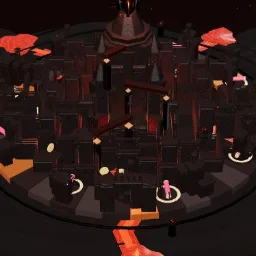
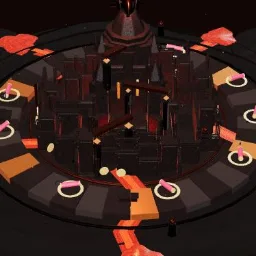
Island 020 playthrough fixes: lava shader, buried tile board, phone freeze
Found by playing Island 020 end to end on the real board:
- The authored lava canal shader animated with uElapsed/uThermalPulse in
  its vertex stage without declaring them, so it failed to compile and the
  canals never drew.
- The authored city GLB sat on top of the 36-tile ring and buried the
  board; its triangles over the route corridor are now carved away at load.
- Tapping the staged-mission row on the Mission Phone folded the phone and
  closed/reopened it in one batch, leaving it stuck folded: every button
  disabled and the controller hidden (the freeze). The row now shows its
  details, and a fold that leaves the phone open always unfolds it again.
- The labyrinth objective names what is missing instead of a flat 0 / 5.

Claude-Session: https://claude.ai/code/session_01JiAyTZEzKKBDjh6881R4g6

diff --git a/src/features/gamification/level-worlds/services/__tests__/island20PlaythroughFixes.test.ts b/src/features/gamification/level-worlds/services/__tests__/island20PlaythroughFixes.test.ts
@@ -1,0 +1,102 @@
+import * as THREE from 'three';
+import { GLTFLoader } from 'three/examples/jsm/loaders/GLTFLoader.js';
+import {
+  carveIsland20AuthoredCityRouteCorridor,
+  ISLAND_20_AUTHORED_CITY_GLB,
+  ISLAND_20_AUTHORED_CITY_SCALE,
+  ISLAND_20_ROUTE_CLEARANCE_INNER_RADIUS,
+  ISLAND_20_ROUTE_CLEARANCE_OUTER_RADIUS,
+} from '../../dev/Island20LavaLabyrinthThreeWorld';
+import { assert, type TestCase } from './testHarness';
+
+async function readSource(path: string): Promise<string> {
+  // @ts-ignore Node test runner provides fs.
+  const fs = await import('fs');
+  return fs.readFileSync(path, 'utf8');
+}
+
+async function loadAuthoredCity(): Promise<THREE.Group> {
+  // @ts-ignore Node test runner provides fs.
+  const fs = await import('fs');
+  const buffer: Uint8Array = fs.readFileSync(`public${ISLAND_20_AUTHORED_CITY_GLB}`);
+  const data = buffer.buffer.slice(buffer.byteOffset, buffer.byteOffset + buffer.byteLength) as ArrayBuffer;
+  const gltf = await new Promise<{ scene: THREE.Group }>((resolve, reject) => {
+    new GLTFLoader().parse(data, '', resolve, reject);
+  });
+  gltf.scene.scale.setScalar(ISLAND_20_AUTHORED_CITY_SCALE);
+  return gltf.scene;
+}
+
+function countTrianglesTouchingCorridor(root: THREE.Object3D): { touching: number; total: number } {
+  root.updateMatrixWorld(true);
+  const vertex = new THREE.Vector3();
+  let touching = 0;
+  let total = 0;
+  root.traverse((object) => {
+    if (!(object instanceof THREE.Mesh)) return;
+    const position = object.geometry.getAttribute('position');
+    const index = object.geometry.getIndex();
+    const count = index ? index.count / 3 : position.count / 3;
+    for (let t = 0; t < count; t += 1) {
+      const radii = [0, 1, 2].map((corner) => {
+        const i = index ? index.getX(t * 3 + corner) : t * 3 + corner;
+        vertex.fromBufferAttribute(position, i).applyMatrix4(object.matrixWorld);
+        return Math.hypot(vertex.x, vertex.z);
+      });
+      total += 1;
+      if (Math.max(...radii) > ISLAND_20_ROUTE_CLEARANCE_INNER_RADIUS
+        && Math.min(...radii) < ISLAND_20_ROUTE_CLEARANCE_OUTER_RADIUS) touching += 1;
+    }
+  });
+  return { touching, total };
+}
+
+export const island20PlaythroughFixesTests: TestCase[] = [
+  {
+    name: 'the authored lava canal shader declares the uniforms its vertex stage animates with',
+    run: async () => {
+      const source = await readSource('src/features/gamification/level-worlds/dev/Island20LavaLabyrinthThreeWorld.ts');
+      const vertexShaders = source.split('vertexShader: `').slice(1).map((chunk) => chunk.slice(0, chunk.indexOf('`')));
+      assert(vertexShaders.length >= 3, 'the Island 020 world authors its own vertex shaders');
+      vertexShaders.forEach((shader, index) => {
+        ['uElapsed', 'uThermalPulse', 'uMotionMix'].forEach((uniform) => {
+          if (!new RegExp(`\\b${uniform}\\b`).test(shader.replace(/uniform float \w+;/g, ''))) return;
+          assert(shader.includes(`uniform float ${uniform};`), `vertex shader ${index + 1} uses ${uniform} without declaring it (the lava canals failed to compile)`);
+        });
+      });
+    },
+  },
+  {
+    name: 'the authored lava city leaves the circular tile board readable',
+    run: async () => {
+      const city = await loadAuthoredCity();
+      const before = countTrianglesTouchingCorridor(city);
+      assert(before.touching > 1000, `the raw GLB covers the tile ring (${before.touching} triangles)`);
+      const removed = carveIsland20AuthoredCityRouteCorridor(city);
+      const after = countTrianglesTouchingCorridor(city);
+      assert(removed === before.touching, 'every triangle over the ring is carved away');
+      assert(after.touching === 0, `no city geometry remains on the tile ring (${after.touching})`);
+      assert(after.total > before.total * 0.4, `the labyrinth city itself survives (${after.total}/${before.total})`);
+      const loaderSource = await readSource('src/features/gamification/level-worlds/dev/Island20LavaLabyrinthThreeWorld.ts');
+      assert(loaderSource.includes('carveIsland20AuthoredCityRouteCorridor(authoredRoot);\n  return authoredRoot;'), 'the runtime loader carves the corridor');
+    },
+  },
+  {
+    name: 'the mission phone can never be stranded folded with every button disabled',
+    run: async () => {
+      const modal = await readSource('src/features/gamification/level-worlds/components/IslandMissionBriefingModal.tsx');
+      assert(modal.includes("if (isOpenRef.current && phaseRef.current === 'folding') updatePhase('unfolding');"), 'a fold that leaves the phone open unfolds it again');
+      const board = await readSource('src/features/gamification/level-worlds/components/IslandRunBoardPrototype.tsx');
+      assert(!board.includes('if (stagedRestorationDescriptor) setShowMissionPhoneBriefing(true);'), 'the staged mission row no longer closes and reopens the phone in one batch');
+      assert(board.includes("if (objectiveIndex === 0 && [1, 3, 10, 13].includes(islandNumber)) return 'launch';"), 'staged mission rows show their details instead of folding the phone');
+    },
+  },
+  {
+    name: 'the labyrinth objective says what is missing instead of a flat 0 / 5',
+    run: async () => {
+      const objectives = await readSource('src/features/gamification/level-worlds/services/islandRunMissionObjectives.ts');
+      assert(objectives.includes('`${landmarkProgress.objectivesComplete} / ${landmarkCount} activities`'), 'built landmarks with open activities are named');
+      assert(objectives.includes('`${landmarkProgress.buildsComplete} / ${landmarkCount} built`'), 'unbuilt landmarks are named');
+    },
+  },
+];

diff --git a/src/features/gamification/level-worlds/dev/Island20LavaLabyrinthThreeWorld.ts b/src/features/gamification/level-worlds/dev/Island20LavaLabyrinthThreeWorld.ts
@@ -343,6 +343,8 @@ function createIsland20AuthoredLavaMaterial(quality: Island3DQuality) {
       uThermalPulse: { value: 0.5 },
     },
     vertexShader: `
+      uniform float uElapsed;
+      uniform float uThermalPulse;
       varying vec3 vLocalPosition;
       varying vec3 vWorldPosition;
       varying vec3 vWorldNormal;
@@ -464,6 +466,53 @@ function keepIsland20AuthoredCityPart(name: string) {
   ].some((part) => name.includes(part));
 }
 
+/**
+ * The authored city GLB was modelled edge to edge, so at its runtime scale its
+ * districts, floors and canals sit on top of the canonical 36-tile ring and
+ * bury the board. Remove every triangle that touches or spans the route
+ * corridor so the tiles, pawn and pickups stay readable. Returns the number
+ * of triangles removed.
+ */
+export function carveIsland20AuthoredCityRouteCorridor(authoredRoot: THREE.Object3D): number {
+  authoredRoot.updateMatrixWorld(true);
+  const inner = ISLAND_20_ROUTE_CLEARANCE_INNER_RADIUS;
+  const outer = ISLAND_20_ROUTE_CLEARANCE_OUTER_RADIUS;
+  const vertex = new THREE.Vector3();
+  let removed = 0;
+  authoredRoot.traverse((object) => {
+    if (!(object instanceof THREE.Mesh)) return;
+    const source = object.geometry as THREE.BufferGeometry;
+    const position = source.getAttribute('position');
+    if (!position) return;
+    const radii = new Float32Array(position.count);
+    for (let i = 0; i < position.count; i += 1) {
+      vertex.fromBufferAttribute(position, i).applyMatrix4(object.matrixWorld);
+      radii[i] = Math.hypot(vertex.x, vertex.z);
+    }
+    const index = source.getIndex();
+    const triangleCount = index ? index.count / 3 : position.count / 3;
+    const kept: number[] = [];
+    for (let t = 0; t < triangleCount; t += 1) {
+      const a = index ? index.getX(t * 3) : t * 3;
+      const b = index ? index.getX(t * 3 + 1) : t * 3 + 1;
+      const c = index ? index.getX(t * 3 + 2) : t * 3 + 2;
+      const minR = Math.min(radii[a], radii[b], radii[c]);
+      const maxR = Math.max(radii[a], radii[b], radii[c]);
+      if (maxR > inner && minR < outer) { removed += 1; continue; }
+      kept.push(a, b, c);
+    }
+    if (kept.length === triangleCount * 3) return;
+    const carved = source.clone();
+    carved.setIndex(kept);
+    carved.computeBoundingBox();
+    carved.computeBoundingSphere();
+    object.geometry = carved;
+    object.visible = object.visible && kept.length > 0;
+  });
+  authoredRoot.userData.routeCorridorTrianglesRemoved = removed;
+  return removed;
+}
+
 export async function loadIsland20AuthoredCity(
   materials: Island20LavaLabyrinthMaterials,
   quality: Island3DQuality = 'high',
@@ -485,6 +534,7 @@ export async function loadIsland20AuthoredCity(
     part.userData.assemblyRestY = part.position.y;
   });
   remapIsland20AuthoredCityMaterials(authoredRoot, materials, authoredLava);
+  carveIsland20AuthoredCityRouteCorridor(authoredRoot);
   return authoredRoot;
 }
 

diff --git a/src/features/gamification/level-worlds/components/IslandRunBoardPrototype.tsx b/src/features/gamification/level-worlds/components/IslandRunBoardPrototype.tsx
@@ -3713,10 +3713,12 @@ export function IslandRunBoardPrototype({
   const missionPhoneObjectiveActions = useMemo<readonly MissionObjectiveAction[]>(() => (
     currentMissionTracker.objectives.map((objective, objectiveIndex) => {
       if (objective.label.toLowerCase().includes('build landmarks')) return 'launch';
-      if (objectiveIndex === 0 && ([1, 3, 10, 13].includes(islandNumber) || Boolean(stagedRestorationDescriptor))) return 'launch';
+      // Staged restorations are driven by the phone's own primary action, so
+      // their mission row explains instead of folding the phone away.
+      if (objectiveIndex === 0 && [1, 3, 10, 13].includes(islandNumber)) return 'launch';
       return 'details';
     })
-  ), [currentMissionTracker.objectives, islandNumber, stagedRestorationDescriptor]);
+  ), [currentMissionTracker.objectives, islandNumber]);
   const missionPhoneObjectiveDetails = useMemo(() => (
     currentMissionTracker.objectives.map((objective, objectiveIndex) => (
       objective.label.toLowerCase().includes('build landmarks')
@@ -3753,9 +3755,7 @@ export function IslandRunBoardPrototype({
     }
     if (islandNumber === 13) {
       openCactusCanyonSpiral();
-      return;
     }
-    if (stagedRestorationDescriptor) setShowMissionPhoneBriefing(true);
   }, [
     currentMissionTracker.objectives,
     islandNumber,
@@ -3764,7 +3764,6 @@ export function IslandRunBoardPrototype({
     openFirstLightAssemblyCrater,
     openFrostwellMission,
     openRootheartPowerworks,
-    stagedRestorationDescriptor,
   ]);
   const missionPhoneCompletionPercent = currentMissionTracker.overallProgressPercent;
   const cactusCanyonSpiralProgress = useMemo(() => resolveCactusCanyonSpiralProgress({

diff --git a/src/features/gamification/level-worlds/components/IslandMissionBriefingModal.tsx b/src/features/gamification/level-worlds/components/IslandMissionBriefingModal.tsx
@@ -59,6 +59,7 @@ type MissionPhonePhase = 'unfolding' | 'unlocking' | 'open' | 'folding';
 // into a full phone. Keep these in sync with the island-mission-phone-* keyframes.
 const MISSION_PHONE_UNFOLD_DURATION_MS = 1100;
 const MISSION_PHONE_FOLD_DURATION_MS = 460;
+const MISSION_PHONE_FOLD_RECOVERY_MS = 120;
 const MISSION_PHONE_UNFOLD_LATCH_MS = 470;
 const MISSION_PHONE_UNFOLD_DOCK_MS = 970;
 const MISSION_PHONE_FOLD_LATCH_MS = 240;
@@ -453,6 +454,8 @@ export function IslandMissionBriefingModal({
   const onAcknowledgeRef = React.useRef(onAcknowledge);
   const onObjectiveSelectRef = React.useRef(onObjectiveSelect);
   const phaseRef = React.useRef<MissionPhonePhase>('unfolding');
+  const isOpenRef = React.useRef(isOpen);
+  isOpenRef.current = isOpen;
   const closeTimerRef = React.useRef<number | null>(null);
   const deviceStatus = useMissionPhoneDeviceStatus(isOpen);
 
@@ -475,6 +478,12 @@ export function IslandMissionBriefingModal({
     closeTimerRef.current = window.setTimeout(() => {
       closeTimerRef.current = null;
       onFolded();
+      // A fold whose handler leaves the phone open must never strand it
+      // folded: every button stays disabled and the controller hidden.
+      closeTimerRef.current = window.setTimeout(() => {
+        closeTimerRef.current = null;
+        if (isOpenRef.current && phaseRef.current === 'folding') updatePhase('unfolding');
+      }, MISSION_PHONE_FOLD_RECOVERY_MS);
     }, MISSION_PHONE_FOLD_DURATION_MS);
   }, [updatePhase]);
 

diff --git a/src/features/gamification/level-worlds/services/__tests__/runIslandRunServiceTests.ts b/src/features/gamification/level-worlds/services/__tests__/runIslandRunServiceTests.ts
@@ -9,6 +9,7 @@ import { eggManiaPopupTests } from './eggManiaPopup.test';
 import { missionPhoneInboxTests } from './missionPhoneInbox.test';
 import { wonderExpressUnderworldTests } from './wonderExpressUnderworld.test';
 import { island20SlideLabyrinthTests } from './island20SlideLabyrinth.test';
+import { island20PlaythroughFixesTests } from './island20PlaythroughFixes.test';
 import { buildStylesTests } from './buildStyles.test';
 import { precisionBuildJuiceTests } from './precisionBuildJuice.test';
 import { companionPairingSurpriseTests } from './companionPairingSurprise.test';
@@ -322,6 +323,7 @@ const suites: Array<{ label: string; tests: TestCase[] }> = [
   { label: 'missionPhoneInbox', tests: missionPhoneInboxTests },
   { label: 'wonderExpressUnderworld', tests: wonderExpressUnderworldTests },
   { label: 'island20SlideLabyrinth', tests: island20SlideLabyrinthTests },
+  { label: 'island20PlaythroughFixes', tests: island20PlaythroughFixesTests },
   { label: 'buildStyles', tests: buildStylesTests },
   { label: 'precisionBuildJuice', tests: precisionBuildJuiceTests },
   { label: 'companionPairingSurprise', tests: companionPairingSurpriseTests },

diff --git a/src/features/gamification/level-worlds/services/islandRunMissionObjectives.ts b/src/features/gamification/level-worlds/services/islandRunMissionObjectives.ts
@@ -371,7 +371,18 @@ export function resolveIslandMissionObjectives(options: {
                   ? `${progress.activatedStages} / ${descriptor.stageCount} systems`
                   : extracted ? 'Extracted' : 'Skiff ready',
           ),
-          objective('Solve Level-3 Labyrinth', landmarkProgress.fullyRestored, landmarkCount),
+          // Name what is still missing: a fully built labyrinth with open
+          // landmark activities used to read as a flat "0 / 5".
+          objective(
+            'Solve Level-3 Labyrinth',
+            landmarkProgress.fullyRestored,
+            landmarkCount,
+            landmarkProgress.fullyRestored >= landmarkCount
+              ? undefined
+              : landmarkProgress.buildsComplete < landmarkCount
+                ? `${landmarkProgress.buildsComplete} / ${landmarkCount} built`
+                : `${landmarkProgress.objectivesComplete} / ${landmarkCount} activities`,
+          ),
         ];
         break;
       }
